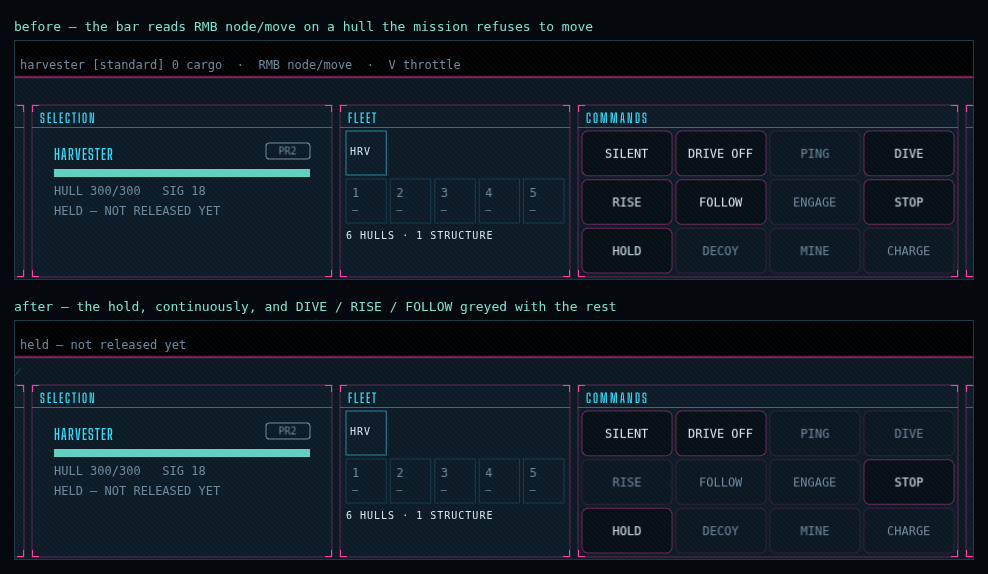
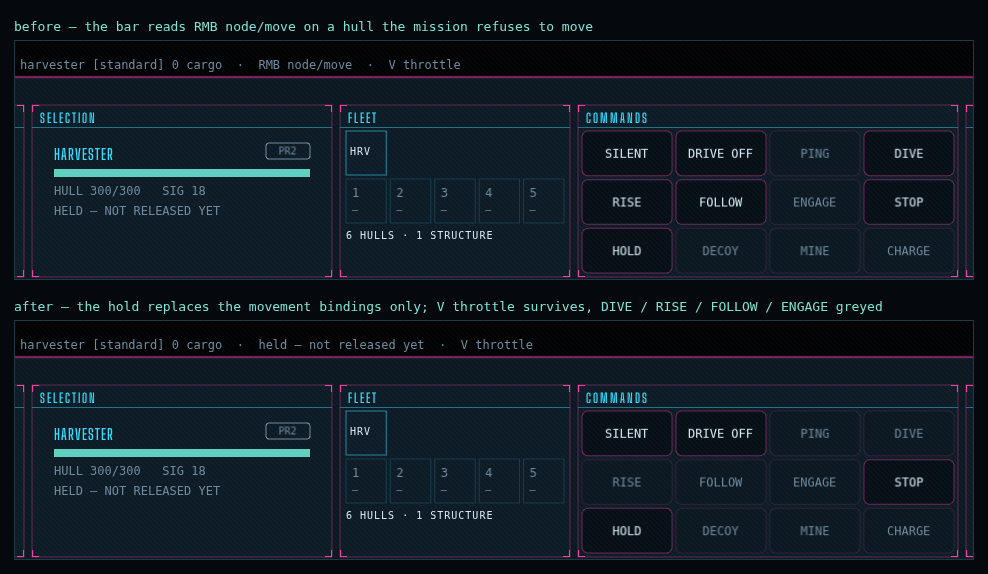
fix(sim, hud): the ordered target is the seventh movement path, and the bar keeps the keys that work
Round 3, on the loop-critic's second verdict. One new fault and two of its
findings carried over — both of the carried ones were right.

**`orderAttackContact` never asked the hold.** combat.ts chases an
*ordered* target and only an ordered one — "auto-acquired targets were in
range by construction" — so an attack order is a movement order, on the
same 60 Hz-against-5 Hz footing as the harvest loop. Measured against the
shipped *Second Chord* literal, on `escort-b`, the armed Corvette it holds
by `releaseTick`, with the raid's targets resolved 4,061 m off: the hull
walked **1,699.9 m in twenty seconds** while the wire went on reporting it
as held.

Refused on the command path rather than clamped in the chase, for two
reasons. The chase is on the 60 Hz budget and the command path is not. And
refusing the *order* leaves the auto-acquire alone, so a held hull still
answers what comes into range and simply never goes looking — which is the
right reading of a hold: it is a movement rule, and a mission that wants
the guns cold says so with `denies(slot, 'weapons')`. That is the carve-out
the chase already makes for a hull holding position, which "was told to".

**The hint bar was hiding six keys that work.** Replacing the whole line
with the hold was the same §7 fault inverted: it dropped `V throttle`,
`SPACE silent`, `P ping`, `X stop` and `H hold`, none of which the hold
refuses — and the first of those in the one mission whose entire subject is
[…]

diff --git a/packages/frontend/src/game/EchoRenderer.ts b/packages/frontend/src/game/EchoRenderer.ts
@@ -3745,8 +3745,15 @@ export class EchoRenderer {
       // through to the move it can still be, rather than being swallowed.
       // The hint bar says which of the two the player got, and why.
       if (!this.refusedByMission('weapons')) {
-        this.callbacks.onAttackOrder(unitIds, contact.id, queued);
-        this.noteOrder(unitIds, 'attack', contact.x, contact.y, queued);
+        // Filtered like every other branch: an ordered target is a movement
+        // order, because only an ordered one chases. A held hull keeps its
+        // auto-acquire and so still answers what comes to it — what it may
+        // not do is be sent (#708).
+        const attacking = this.movable(unitIds);
+        if (attacking.length > 0) {
+          this.callbacks.onAttackOrder(attacking, contact.id, queued);
+          this.noteOrder(attacking, 'attack', contact.x, contact.y, queued);
+        }
         return;
       }
     }
@@ -7153,30 +7160,27 @@ export class EchoRenderer {
       if (this.isTouch || !canBuild) return `${name}${queue}`;
       return `${name}${queue}  ·  UNITS tab to produce  ·  ${this.buildKeyHint()} build`;
     }
-    // A selection the mission is holding whole gets the rule instead of the
-    // bindings. Each line below leads with a way to move — `RMB node/move`,
-    // `RMB move`, `D dive`, `A rise` — and naming a binding the mission
-    // refuses is the same silent lie as a dead button, worse because a hint
-    // reads as instruction. That is the `canBuild` guard above applied to the
-    // other half of §7, and §10.5's continuous state rather than the four
-    // seconds the refusal above lasts: the tender was saying `held — not
-    // released yet` on its inspector line while the bar underneath told the
-    // player to send it to a node (#708).
+    // A selection the mission is holding whole says so where it would
+    // otherwise say how to move it. §10.5 wants continuous state rather than
+    // the four seconds the refusal above lasts: the tender was saying `held —
+    // not released yet` on its inspector line while the bar underneath told
+    // the player to send it to a node (#708).
     //
-    // One binding is genuinely lost to this and is worth naming rather than
-    // glossing: the transport line's `LAND to unload`, which `orderDisembark`
-    // does not refuse, so a held carrier can still empty its hold. The hold
-    // outranks it anyway, for the reason `infoLine2` orders these two the same
-    // way — a hull that is not taking movement orders is the more important
-    // thing about it, and the two surfaces must not disagree. No shipped
-    // mission holds a hull that has a hold, so today this costs nothing; if one
-    // ever does, this is the line to revisit.
+    // The hold replaces the *movement* bindings and nothing else. Dropping the
+    // whole line instead was the same §7 fault inverted — it hid `V throttle`,
+    // `SPACE silent`, `P ping`, `X stop` and `H hold`, none of which the hold
+    // refuses, and the first of those in the one mission whose entire subject
+    // is a SIG budget. A hull that cannot go anywhere can still be made quiet,
+    // can still be told to stand, and can still empty its hold: `setThrottle`,
+    // `setSilentRunning`, `orderStop`, `orderHold` and `orderDisembark` ask
+    // `holdsMovement` nothing, and a bar that hides a working key is as much a
+    // silent lie as one that advertises a dead one.
     const heldAll = this.heldSelection(this.selectedUnits());
-    if (heldAll !== null) return heldAll;
-
     const transport = this.units.find((u) => this.selected.has(u.id) && u.hold !== undefined);
     if (transport !== undefined && this.selected.size === 1) {
       const state = `transport [HOLD ${transport.hold!.used}/${transport.hold!.berths}]`;
+      // Boarding is `orderEmbark`, which the hold does refuse; landing is not.
+      if (heldAll !== null) return `${state}  ·  ${heldAll}  ·  LAND to unload`;
       return this.isTouch
         ? `${state}  ·  select hulls, tap the transport to board  ·  LAND to unload`
         : `${state}  ·  select hulls, RMB the transport to board  ·  LAND to unload  ·  RMB move`;
@@ -7185,9 +7189,17 @@ export class EchoRenderer {
     if (harvester !== undefined) {
       const throttle = THROTTLE_LABEL[harvester.throttle!];
       const state = `harvester [${throttle}] ${harvester.cargo?.toFixed(0) ?? 0} cargo`;
+      if (heldAll !== null) return `${state}  ·  ${heldAll}  ·  V throttle`;
       return this.isTouch
         ? `${state}  ·  tap a field`
         : `${state}  ·  RMB node/move  ·  V throttle`;
+    }
+    if (heldAll !== null) {
+      // What is left of the generic line once every way to move is off it.
+      return this.isTouch
+        ? `${this.selected.size} selected  ·  ${heldAll}`
+        : `${this.selected.size} selected  ·  ${heldAll}  ·  X stop  ·  H hold  ·  ` +
+            `CTRL+RMB torpedo  ·  SPACE silent  ·  P ping`;
     }
     return this.isTouch
       ? `${this.selected.size} selected  ·  tap map to order`

diff --git a/packages/backend/test/missionHold.test.ts b/packages/backend/test/missionHold.test.ts
@@ -36,11 +36,12 @@ import {
   type EchoSnapshot,
   type MissionView,
 } from '@echoes/shared';
-import { defineQuery } from 'bitecs';
+import { defineQuery, hasComponent } from 'bitecs';
 import { Match } from '../src/sim/match.ts';
-import { Owner, Position, ResourceNode } from '../src/sim/components.ts';
+import { Owner, Position, ResourceNode, Weapon } from '../src/sim/components.ts';
 import { missionMapById } from '../src/sim/maps/index.ts';
 import {
+  CHORD_SECOND_CHORD,
   LEDGER_SHIFT_CHANGE,
   PROLOGUE_SORROWGATE,
   type MissionDefinition,
@@ -381,6 +382,74 @@ describe('a harvest order is a movement order, and the hold refuses it too', () 
     assert.ok(
       view.held.some((hold) => hold.unitId === h.eid),
       'the hull the mission walked was still being reported as held'
+    );
+  });
+});
+
+/**
+ * The ordered target, which is the seventh way to move a hull and the last found.
+ *
+ * `orderAttackContact` writes `Weapon.orderedTargetEid`, and combat.ts chases
+ * an *ordered* target — "only an explicit order chases; auto-acquired targets
+ * were in range by construction". So an attack order is a movement order, on
+ * the same 60 Hz-against-5 Hz footing as the harvest loop above, and it was the
+ * one path that never asked the hold.
+ *
+ * Refused rather than clamped in the chase, because the chase is on the 60 Hz
+ * budget and the command path is not — and refusing the *order* leaves the
+ * auto-acquire alone, so a held hull still answers what comes into range and
+ * simply never goes looking. That is the right reading of a hold: it is a
+ * movement rule, and a mission that wants the guns cold says so with
+ * `denies(slot, 'weapons')` instead.
+ *
+ * Driven against *The Second Chord*, which is where it bites: `escort-b` is an
+ * armed Corvette held by `releaseTick`, with the raid's targets resolved and
+ * four kilometres off. Before the guard it walked 1,699.9 m in twenty seconds
+ * while the wire went on reporting it as held.
+ */
+describe('an ordered target is a movement order, and the hold refuses it too', () => {
+  it('leaves an armed held hull where it stands, with the contact resolved', () => {
+    const map = missionMapById(CHORD_SECOND_CHORD.mapId)!;
+    const match = new Match(map, { mission: CHORD_SECOND_CHORD, fauna: false, seed: 5 });
+    let own: EchoSnapshot | null = null;
+    let view: MissionView | null = null;
+    for (let tick = 0; tick < SIM.TICK_HZ * 5; tick++) {
+      const next = match.update(STEP_MS)?.get(CHORD_SECOND_CHORD.playerSlot);
+      if (next !== undefined) own = next;
+      const sent = match.takeMissionView();
+      if (sent !== null) view = sent;
+    }
+    assert.ok(own !== null && view !== null, 'the mission produced neither a snapshot nor a view');
+    assert.ok(own.contacts.length > 0, 'nothing is resolved to attack');
+
+    // The held hull that can actually shoot — the Cruiser beside it carries no
+    // weapon, so an attack order on it is refused a line earlier for a reason
+    // this test is not about.
+    const armed = view.held
+      .map((hold) => hold.unitId)
+      .find((eid) => hasComponent(match.world, Weapon, eid));
+    assert.ok(armed !== undefined, 'no held hull in this mission is armed');
+
+    // The furthest contact, so a chase would be unmistakable.
+    let far = -1;
+    let target = own.contacts[0]!;
+    for (const contact of own.contacts) {
+      const d = Math.hypot(contact.x - Position.x[armed]!, contact.y - Position.y[armed]!);
+      if (d > far) {
+        far = d;
+        target = contact;
+      }
+    }
+    assert.ok(far > 1000, `the contact to chase is only ${far.toFixed(0)} m off`);
+
+    const before = { x: Position.x[armed]!, y: Position.y[armed]! };
+    match.orderAttackContact(Owner.slot[armed]!, armed, target.id);
+    for (let tick = 0; tick < SIM.TICK_HZ * 20; tick++) match.update(STEP_MS);
+
+    const moved = Math.hypot(Position.x[armed]! - before.x, Position.y[armed]! - before.y);
+    assert.ok(
+      moved < 5,
+      `a held hull chased a contact ${far.toFixed(0)} m off (moved ${moved.toFixed(0)} m)`
     );
   });
 });

diff --git a/packages/backend/src/sim/match.ts b/packages/backend/src/sim/match.ts
@@ -1323,6 +1323,20 @@ export class Match {
       queued,
     });
     if (this.missionDenies(slot, 'weapons')) return;
+    // The seventh path, and the one that hid the longest: an ordered target is
+    // a movement order, because `combat.ts` chases one. Only an *ordered*
+    // target chases — an auto-acquired one "was in range by construction" —
+    // so refusing the order here leaves a held hull shooting whatever comes to
+    // it while never going to look, which is the right reading of a hold: it
+    // is a movement rule, and a mission that wants the guns cold has
+    // `denies(slot, 'weapons')` for that. The same carve-out the chase already
+    // makes for a hull holding position, which "was told to".
+    //
+    // Refused on this path rather than clamped in the chase, because the chase
+    // is on the 60 Hz budget and this is not. Measured before the guard: a
+    // Corvette the mission was still reporting as held walked 1,565 m in
+    // twenty seconds on one right-click (#708).
+    if (this.missionRuntime?.holdsMovement(slot, eid) === true) return;
     if (!this.owns(slot, eid) || !hasComponent(this.world, Weapon, eid)) return;
     const target = this.echo.entityForHandle(slot, contactHandle);
     // A phantom's handle names no entity by construction, and refusing it here

diff --git a/docs/invariants.md b/docs/invariants.md
@@ -60,8 +60,8 @@ exactly this reason.
 | 13 | No propagation cell exceeds the grid's reported peak, and that peak never exceeds the loudest PF anything is specified to produce | [environments.md](environments.md); #372 — a storm ×10 is a modifier like any other | `packages/backend/test/hazards.test.ts` — `resonance storms`; `packages/backend/test/terrainChange.test.ts` — `the water a beat rewrites` |
 | 14 | The five block reasons of the commander's ordnance want partition it exactly — every observation that reaches the want increments one, so they sum to the observations counted | #698 — the reading a report takes off this table is a share, and a share of a miscount is wrong in a way nothing else catches | `packages/backend/test/balance.test.ts` — `partitions the ordnance want into the reason it was stopped` |
 | 15 | The relief shade only ever darkens an authored fill, scales with the size of the ground step rather than saturating, and moves luminance without moving hue | [graphics-standards.md](graphics-standards.md); [style-neon-noir.md](style-neon-noir.md) — the shading is a lighting model, checked against the light rather than a screenshot | `packages/frontend/test/palette.test.ts` — `reliefShade` |
-| 16 | The shell sends no order for a hull the mission is holding, and reads a selection as held only when **every** hull in it is — so a mixed selection still goes | [ui-ux.md](ui-ux.md) §10.5 — the lock is continuous state, learned before the press, and an order to a mixed selection still moves what is not held; #478, #708 | `packages/frontend/test/movementHolds.test.ts` — `a selection the mission holds whole says so before the press`; `packages/frontend/test/rendererSmoke.test.ts` — `sends no order at all for a hull the mission is holding` |
-| 17 | Every order that moves a hull asks the mission's hold first — move, attack-move, embark, dive, follow-floor and harvest alike | [mission-sorrowgate.md](mission-sorrowgate.md) §8; #478, #708 — the clamp runs at 5 Hz and movement at 60, so a path that skips the refusal is not merely late, it is unbounded | `packages/backend/test/missionHold.test.ts` — `a harvest order is a movement order, and the hold refuses it too` |
+| 16 | The shell sends no **movement** order — move, attack-move, attack-contact, embark, dive, follow-floor, harvest — for a hull the mission is holding, and reads a selection as held only when **every** hull in it is, so a mixed selection still goes | [ui-ux.md](ui-ux.md) §10.5 — the lock is continuous state, learned before the press, and an order to a mixed selection still moves what is not held; #478, #708. Orders the hold does not refuse (stop, hold, throttle, silent, disembark) are deliberately outside this row | `packages/frontend/test/movementHolds.test.ts` — `a selection the mission holds whole says so before the press`; `packages/frontend/test/rendererSmoke.test.ts` — `sends no order at all for a hull the mission is holding` |
+| 17 | Every order that moves a hull asks the mission's hold first — move, attack-move, attack-contact, embark, dive, follow-floor and harvest, the seven that can write `MoveOrder` or `DepthOrder` from a command path | [mission-sorrowgate.md](mission-sorrowgate.md) §8 — a held hull "stops where it stands"; #478, #708. The clamp runs at 5 Hz and movement at 60, so a path that skips the refusal is not merely late, it is unbounded | `packages/backend/test/missionHold.test.ts` — `a harvest order is a movement order, and the hold refuses it too`; `packages/backend/test/missionHold.test.ts` — `an ordered target is a movement order, and the hold refuses it too`; `packages/backend/test/missionHold.test.ts` — `the order path and the wire agree about what is held`; `packages/backend/test/missionRuntime.test.ts` — `refuses the order while the hull is held, whatever the player clicks` |
 
 ## Why a gate, and what it does not do
 
